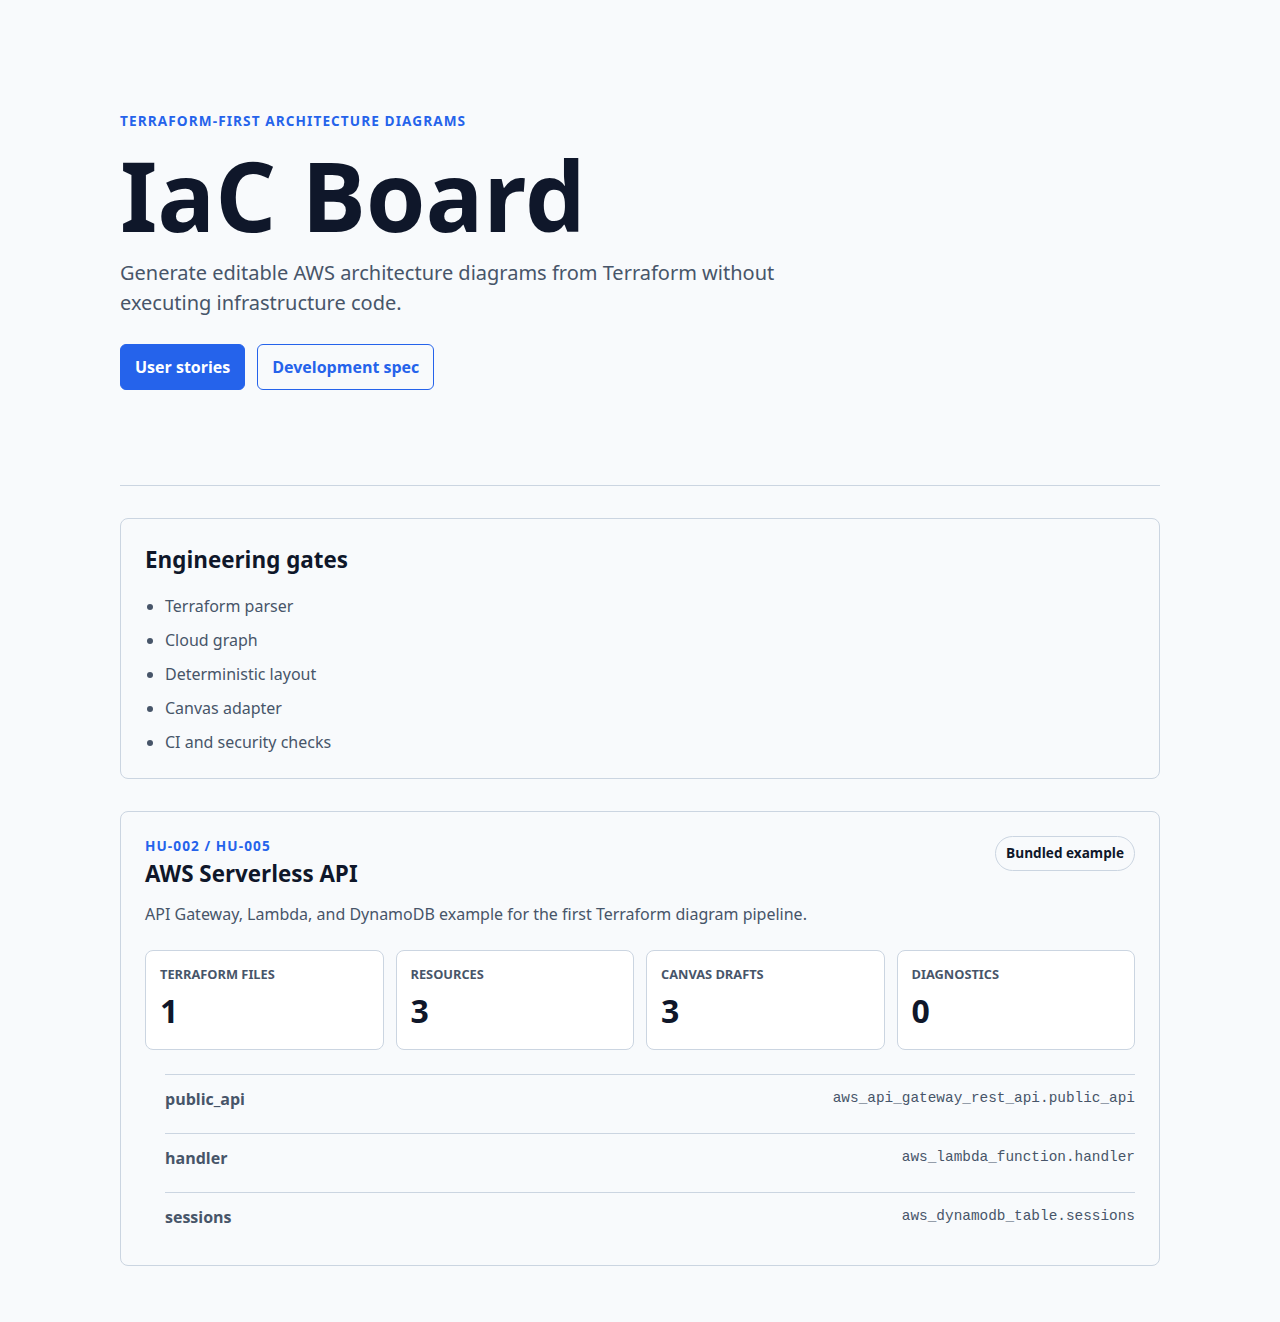
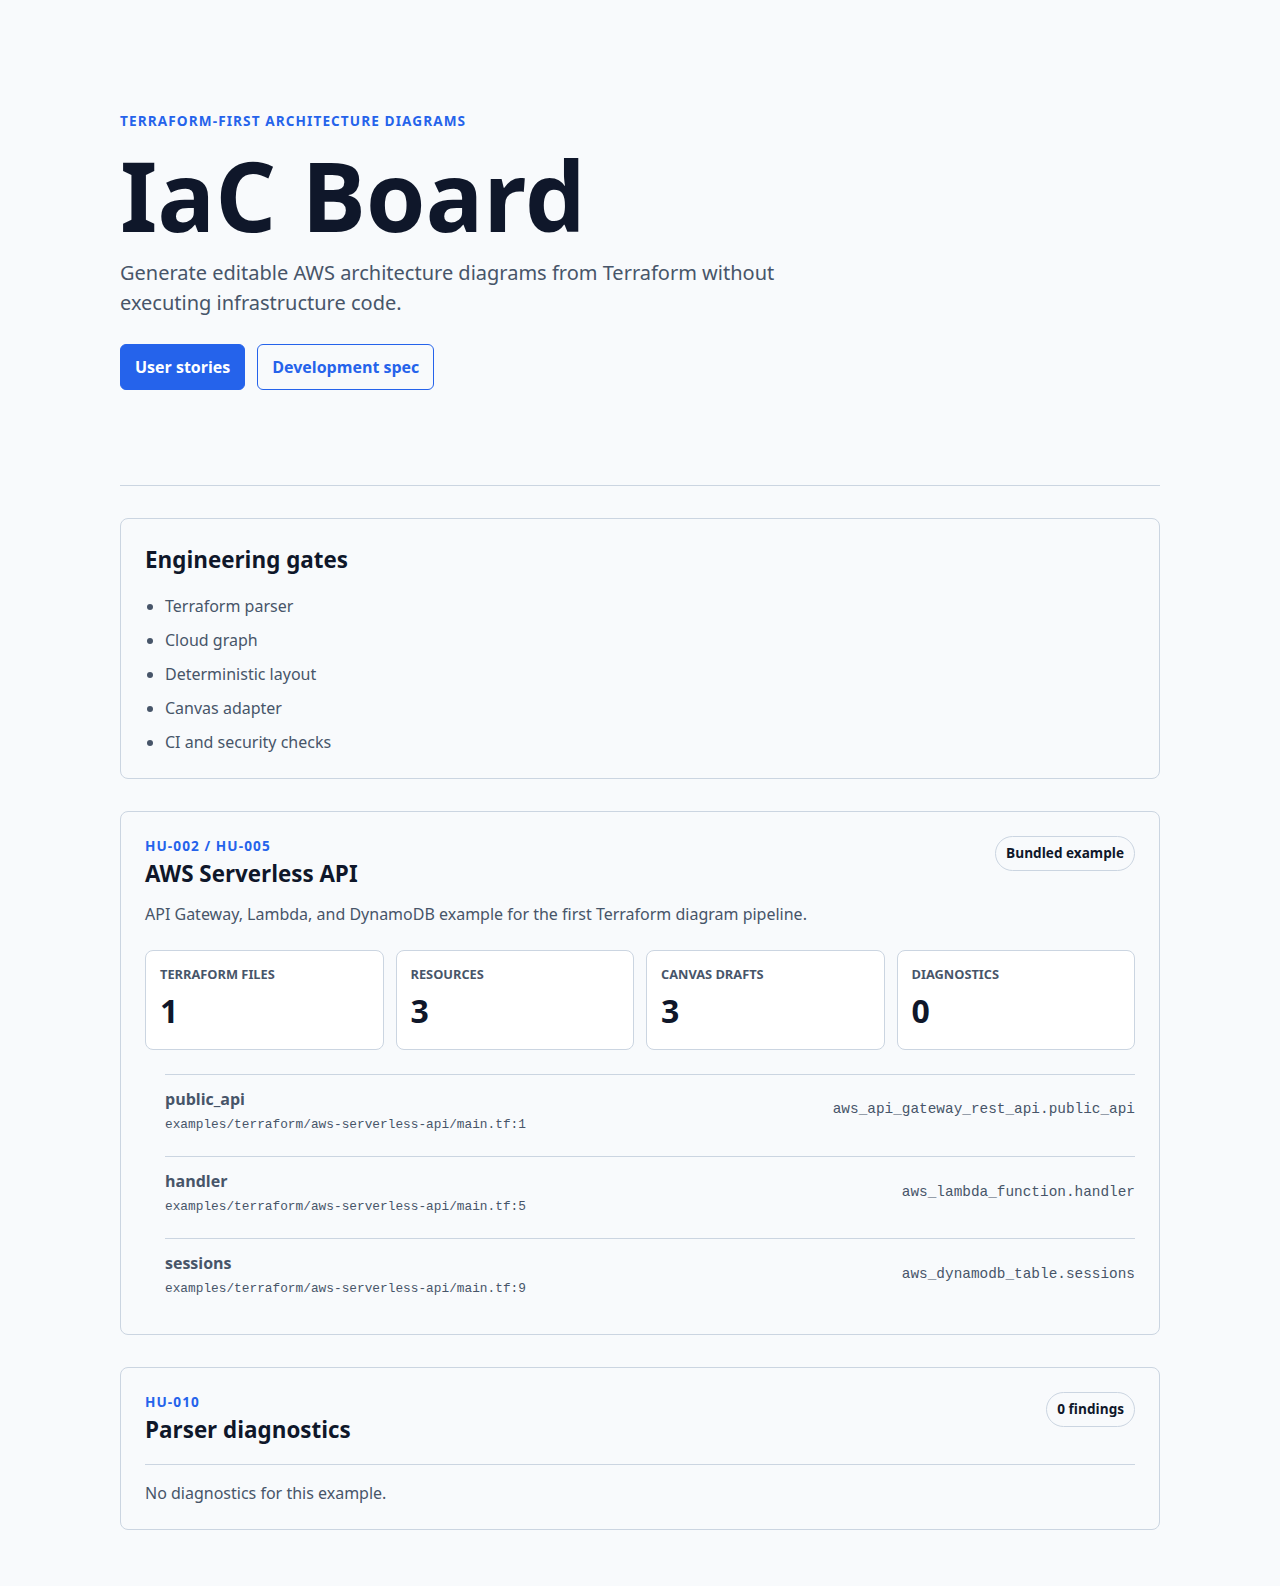
feat(web): show source metadata and diagnostics

diff --git a/apps/web/src/App.tsx b/apps/web/src/App.tsx
@@ -1,5 +1,7 @@
 import { getExampleProject } from '@iac-board/example-catalog'
+import type { ExampleProject } from '@iac-board/example-catalog'
 import { generateDiagramFromTerraformFiles } from '@iac-board/pipeline'
+import type { DiagramPipelineResult } from '@iac-board/pipeline'
 import './App.css'
 
 const qualityGates = [
@@ -10,9 +12,15 @@ const qualityGates = [
   'CI and security checks',
 ]
 
-function App() {
-  const example = getExampleProject('aws-serverless-api')
-  const generatedDiagram = generateDiagramFromTerraformFiles(example.files)
+type ProductShellProps = {
+  example: ExampleProject
+  generatedDiagram: DiagramPipelineResult
+}
+
+export function ProductShell({ example, generatedDiagram }: ProductShellProps) {
+  const nodesById = new Map(
+    generatedDiagram.graph.nodes.map((node) => [node.id, node]),
+  )
 
   return (
     <main className="app-shell">
@@ -66,16 +74,62 @@ function App() {
           </div>
         </dl>
         <ul className="resource-list" aria-label="Generated resources">
-          {generatedDiagram.canvasDrafts.map((draft) => (
-            <li key={draft.id}>
-              <strong>{draft.label}</strong>
-              <span>{draft.id}</span>
-            </li>
-          ))}
+          {generatedDiagram.canvasDrafts.map((draft) => {
+            const node = nodesById.get(draft.id)
+            const sourceLabel = node?.source
+              ? `${node.source.filePath}:${node.source.line ?? 1}`
+              : 'Source unknown'
+
+            return (
+              <li key={draft.id}>
+                <div>
+                  <strong>{draft.label}</strong>
+                  <small>{sourceLabel}</small>
+                </div>
+                <span>{draft.id}</span>
+              </li>
+            )
+          })}
         </ul>
+      </section>
+
+      <section className="panel" aria-labelledby="diagnostics-title">
+        <div className="panel-header">
+          <div>
+            <p className="eyebrow">HU-010</p>
+            <h2 id="diagnostics-title">Parser diagnostics</h2>
+          </div>
+          <span className="status-pill">
+            {generatedDiagram.diagnostics.length} findings
+          </span>
+        </div>
+        {generatedDiagram.diagnostics.length === 0 ? (
+          <p className="empty-state">No diagnostics for this example.</p>
+        ) : (
+          <ul className="diagnostic-list" aria-label="Parser diagnostics">
+            {generatedDiagram.diagnostics.map((diagnostic) => (
+              <li key={`${diagnostic.code}-${diagnostic.message}`}>
+                <strong>{diagnostic.severity}</strong>
+                <span>{diagnostic.message}</span>
+                {diagnostic.source ? (
+                  <small>
+                    {diagnostic.source.filePath}:{diagnostic.source.line ?? 1}
+                  </small>
+                ) : null}
+              </li>
+            ))}
+          </ul>
+        )}
       </section>
     </main>
   )
+}
+
+function App() {
+  const example = getExampleProject('aws-serverless-api')
+  const generatedDiagram = generateDiagramFromTerraformFiles(example.files)
+
+  return <ProductShell example={example} generatedDiagram={generatedDiagram} />
 }
 
 export default App

diff --git a/apps/web/src/App.css b/apps/web/src/App.css
@@ -130,10 +130,47 @@
   padding: 12px 0;
 }
 
+.resource-list div {
+  display: grid;
+  gap: 4px;
+}
+
 .resource-list span {
   color: var(--text);
   font-family: ui-monospace, SFMono-Regular, Consolas, monospace;
   font-size: 0.9rem;
+}
+
+.resource-list small,
+.diagnostic-list small {
+  color: var(--text);
+  font-family: ui-monospace, SFMono-Regular, Consolas, monospace;
+  font-size: 0.8rem;
+}
+
+.empty-state {
+  border-top: 1px solid var(--border);
+  color: var(--text);
+  margin: 18px 0 0;
+  padding-top: 16px;
+}
+
+.diagnostic-list {
+  list-style: none;
+  padding: 0;
+}
+
+.diagnostic-list li {
+  border-top: 1px solid var(--border);
+  display: grid;
+  gap: 4px;
+  padding: 12px 0;
+}
+
+.diagnostic-list strong {
+  color: var(--accent);
+  font-size: 0.8rem;
+  text-transform: uppercase;
 }
 
 @media (max-width: 760px) {

diff --git a/packages/pipeline/test/pipeline.test.ts b/packages/pipeline/test/pipeline.test.ts
@@ -15,5 +15,39 @@ describe('generateDiagramFromTerraformFiles', () => {
     ])
     expect(result.canvasDrafts).toHaveLength(3)
     expect(result.diagnostics).toEqual([])
+    expect(result.graph.nodes[1]).toMatchObject({
+      id: 'aws_lambda_function.handler',
+      source: {
+        filePath: 'examples/terraform/aws-serverless-api/main.tf',
+        line: 5,
+      },
+    })
+  })
+
+  it('keeps unsupported Terraform resources visible with diagnostics', () => {
+    const result = generateDiagramFromTerraformFiles([
+      {
+        path: 'infra/main.tf',
+        content: 'resource "custom_service" "thing" {}',
+      },
+    ])
+
+    expect(result.canvasDrafts).toContainEqual(
+      expect.objectContaining({
+        id: 'custom_service.thing',
+        label: 'thing',
+      }),
+    )
+    expect(result.diagnostics).toMatchObject([
+      {
+        code: 'GRAPH001',
+        message: 'Unsupported Terraform resource type: custom_service',
+        severity: 'warning',
+        source: {
+          filePath: 'infra/main.tf',
+          line: 1,
+        },
+      },
+    ])
   })
 })

diff --git a/apps/web/src/App.test.tsx b/apps/web/src/App.test.tsx
@@ -1,5 +1,7 @@
 import { render, screen } from '@testing-library/react'
-import App from './App'
+import { getExampleProject } from '@iac-board/example-catalog'
+import { generateDiagramFromTerraformFiles } from '@iac-board/pipeline'
+import App, { ProductShell } from './App'
 
 describe('App', () => {
   it('renders the product shell', () => {
@@ -16,5 +18,33 @@ describe('App', () => {
       screen.getByRole('heading', { level: 2, name: 'AWS Serverless API' }),
     ).toBeInTheDocument()
     expect(screen.getByText('aws_lambda_function.handler')).toBeInTheDocument()
+    expect(
+      screen.getByText('examples/terraform/aws-serverless-api/main.tf:5'),
+    ).toBeInTheDocument()
+    expect(
+      screen.getByRole('heading', { level: 2, name: 'Parser diagnostics' }),
+    ).toBeInTheDocument()
+    expect(
+      screen.getByText('No diagnostics for this example.'),
+    ).toBeInTheDocument()
+  })
+
+  it('renders parser diagnostics with source locations', () => {
+    const example = getExampleProject('aws-serverless-api')
+    const generatedDiagram = generateDiagramFromTerraformFiles([
+      {
+        path: 'infra/main.tf',
+        content: 'resource "custom_service" "thing" {}',
+      },
+    ])
+
+    render(
+      <ProductShell example={example} generatedDiagram={generatedDiagram} />,
+    )
+
+    expect(
+      screen.getByText('Unsupported Terraform resource type: custom_service'),
+    ).toBeInTheDocument()
+    expect(screen.getAllByText('infra/main.tf:1')).toHaveLength(2)
   })
 })

diff --git a/tests/integration/terraform-to-canvas.test.ts b/tests/integration/terraform-to-canvas.test.ts
@@ -25,5 +25,14 @@ describe('Terraform to canvas pipeline', () => {
         label: 'sessions',
       }),
     )
+    expect(result.graph.nodes).toContainEqual(
+      expect.objectContaining({
+        id: 'aws_lambda_function.handler',
+        source: expect.objectContaining({
+          filePath: 'examples/terraform/aws-serverless-api/main.tf',
+          line: 5,
+        }),
+      }),
+    )
   })
 })

diff --git a/tests/e2e/app.spec.ts b/tests/e2e/app.spec.ts
@@ -9,7 +9,14 @@ test('loads the IaC Board product shell', async ({ page }) => {
     page.getByRole('heading', { name: 'AWS Serverless API' }),
   ).toBeVisible()
   await expect(page.getByText('aws_lambda_function.handler')).toBeVisible()
+  await expect(
+    page.getByText('examples/terraform/aws-serverless-api/main.tf:5'),
+  ).toBeVisible()
   await expect(page.getByLabel('Generated diagram metrics')).toContainText(
     'Canvas drafts',
   )
+  await expect(
+    page.getByRole('heading', { name: 'Parser diagnostics' }),
+  ).toBeVisible()
+  await expect(page.getByText('No diagnostics for this example.')).toBeVisible()
 })